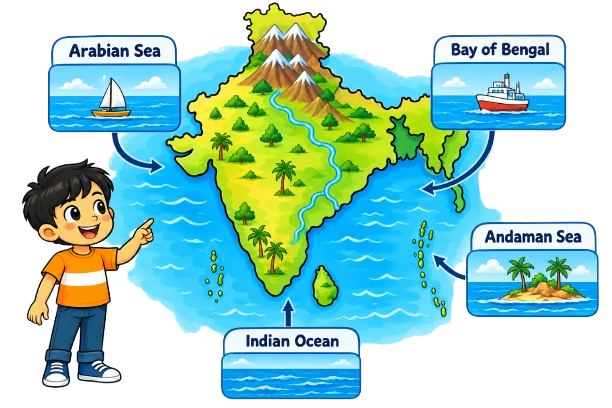
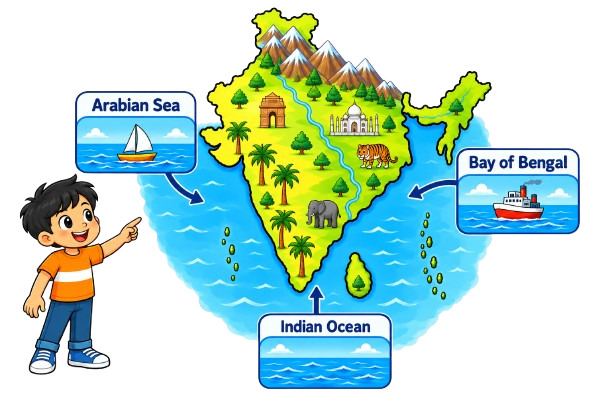
update Grade 3-4 social images and Lesson 2 MCQ wording

diff --git a/public/subjects/social/Grade3/Grade3_Lesson2/exercise/mcq.html b/public/subjects/social/Grade3/Grade3_Lesson2/exercise/mcq.html
@@ -1356,7 +1356,7 @@
 
             {
                 question:
-                    "Q4. The largest and the deepest ocean is the ________.",
+                    "Q4. The largest and the deepest Ocean is the ________.",
 
                 image:
                     "../images/mcq44.png",
